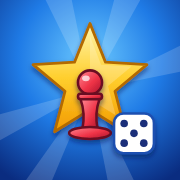
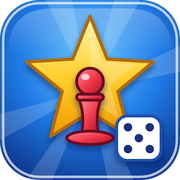
Release 1.0.3.13: online Ludo with robots, surrender continues with robots, search card
- Ludo challenge asks for 0, 1 or 2 robots before it is sent.
- Robots fill seats 1 and 3; the host plays their turns; a player who surrenders gives his seat to a robot.
- A finished or left match never reopens by itself.
- Loss sound in online Ludo matches is the one from 1.0.2.59.
- Share card (og-image) and app icons use the new logo; title and description name Master Ludo W7 and online play.
- Migration 0009 adds robots and left_by (run it in Supabase before using this release).

Claude-Session: https://claude.ai/code/session_012oGnVPYsw6om722k7p4FdL

diff --git a/index.html b/index.html
@@ -5,26 +5,27 @@
 <meta name="google-site-verification" content="8vVfpssUxzTwk8yxWrmpteVLQDSvXtFi3DxhR9DhiJo" />
 <meta name="google" content="notranslate">
 <meta name="viewport" content="width=device-width,initial-scale=1,maximum-scale=1,minimum-scale=1,user-scalable=no,viewport-fit=cover">
-<title>ماستر لودو - Master Ludo</title>
-<script type="application/ld+json">{"@context": "https://schema.org", "@type": "WebSite", "name": "ماستر لودو - Master Ludo", "alternateName": ["Master Ludo", "ماستر لودو", "Master Ludo W7", "ماستر لودو W7", "Master Ludo Online"], "url": "https://master-ludo-w-seven.vercel.app/", "inLanguage": "ar"}</script>
+<title>Master Ludo W7 | ماستر لودو W7 - لعبة ليدو أونلاين</title>
+<script type="application/ld+json">{"@context": "https://schema.org", "@type": "WebSite", "name": "Master Ludo W7 | ماستر لودو W7 - لعبة ليدو أونلاين", "alternateName": ["Master Ludo", "ماستر لودو", "Master Ludo W7", "ماستر لودو W7", "Master Ludo Online"], "url": "https://master-ludo-w-seven.vercel.app/", "inLanguage": "ar"}</script>
 <meta name="robots" content="index,follow">
 <meta name="google-site-verification" content="vg9xHK12pdZE-18hPjQ5stEiOeEEj-1WRtIe7cxsWUc" />
-<meta name="description" content="العب ماستر لودو W7 أونلاين مع أصدقائك الآن مباشرة عبر المتصفح، لعبة ليدو ستار مع صالة ألعاب وشطرنج، بدون تحميل.">
+<meta name="description" content="Master Ludo W7 (ماستر لودو W7): العب ليدو وشطرنج أونلاين مع أصدقائك، تحدَّ صديقاً وأضف روبوتات، أو العب ضد الروبوت مباشرة من المتصفح بدون تحميل، مع صالة ألعاب مصغّرة.">
 <link rel="canonical" href="https://master-ludo-w-seven.vercel.app/">
 <meta property="og:type" content="website">
-<meta property="og:site_name" content="Master Ludo">
-<meta property="og:title" content="ماستر لودو - Master Ludo">
-<meta property="og:description" content="العب ماستر لودو W7 أونلاين مع أصدقائك الآن مباشرة عبر المتصفح، لعبة ليدو ستار مع صالة ألعاب وشطرنج، بدون تحميل.">
+<meta property="og:site_name" content="Master Ludo W7">
+<meta property="og:title" content="Master Ludo W7 | ماستر لودو W7 - لعبة ليدو أونلاين">
+<meta property="og:description" content="Master Ludo W7 (ماستر لودو W7): العب ليدو وشطرنج أونلاين مع أصدقائك، تحدَّ صديقاً وأضف روبوتات، أو العب ضد الروبوت مباشرة من المتصفح بدون تحميل، مع صالة ألعاب مصغّرة.">
 <meta property="og:url" content="https://master-ludo-w-seven.vercel.app/">
 <meta property="og:image" content="https://master-ludo-w-seven.vercel.app/og-image.png">
+<meta property="og:image:alt" content="Master Ludo W7 - ماستر لودو W7">
 <meta property="og:image:width" content="1200">
 <meta property="og:image:height" content="630">
 <meta property="og:locale" content="ar">
 <meta name="twitter:card" content="summary_large_image">
-<meta name="twitter:title" content="ماستر لودو - Master Ludo">
-<meta name="twitter:description" content="العب ماستر لودو W7 أونلاين مع أصدقائك الآن مباشرة عبر المتصفح، لعبة ليدو ستار مع صالة ألعاب وشطرنج، بدون تحميل.">
+<meta name="twitter:title" content="Master Ludo W7 | ماستر لودو W7 - لعبة ليدو أونلاين">
+<meta name="twitter:description" content="Master Ludo W7 (ماستر لودو W7): العب ليدو وشطرنج أونلاين مع أصدقائك، تحدَّ صديقاً وأضف روبوتات، أو العب ضد الروبوت مباشرة من المتصفح بدون تحميل، مع صالة ألعاب مصغّرة.">
 <meta name="twitter:image" content="https://master-ludo-w-seven.vercel.app/og-image.png">
-<script type="application/ld+json">{"@context": "https://schema.org", "@type": "VideoGame", "name": "Master Ludo", "alternateName": "ماستر لودو", "description": "العب ماستر لودو W7 أونلاين مع أصدقائك الآن مباشرة عبر المتصفح، لعبة ليدو ستار مع صالة ألعاب وشطرنج، بدون تحميل.", "url": "https://master-ludo-w-seven.vercel.app/", "image": "https://master-ludo-w-seven.vercel.app/og-image.png", "inLanguage": "ar", "genre": ["Board game", "Strategy"], "gamePlatform": "Web browser", "applicationCategory": "Game", "offers": {"@type": "Offer", "price": "0", "priceCurrency": "USD"}, "author": {"@type": "Person", "name": "Salah.Nejb.650"}}</script>
+<script type="application/ld+json">{"@context": "https://schema.org", "@type": "VideoGame", "name": "Master Ludo W7", "alternateName": ["Master Ludo", "ماستر لودو", "Master Ludo W7", "ماستر لودو W7", "Master Ludo Online"], "description": "Master Ludo W7 (ماستر لودو W7): العب ليدو وشطرنج أونلاين مع أصدقائك، تحدَّ صديقاً وأضف روبوتات، أو العب ضد الروبوت مباشرة من المتصفح بدون تحميل، مع صالة ألعاب مصغّرة.", "url": "https://master-ludo-w-seven.vercel.app/", "image": "https://master-ludo-w-seven.vercel.app/og-image.png", "inLanguage": "ar", "genre": ["Board game", "Strategy"], "gamePlatform": "Web browser", "applicationCategory": "Game", "offers": {"@type": "Offer", "price": "0", "priceCurrency": "USD"}, "author": {"@type": "Person", "name": "Salah.Nejb.650"}}</script>
 <meta name="theme-color" content="#0b1240">
 <meta name="mobile-web-app-capable" content="yes">
 <meta name="apple-mobile-web-app-capable" content="yes">
@@ -180,7 +181,7 @@ input[type=range]{width:100%;accent-color:var(--gold)}
 .sw{width:46px;height:46px;border-radius:50%;border:4px solid rgba(255,255,255,.5);cursor:pointer;background:var(--c);box-shadow:0 4px 0 rgba(0,0,40,.4),inset 0 3px 0 rgba(255,255,255,.5)}
 .sw[aria-pressed=true]{border-color:#fff;transform:scale(1.15)}
 .modal{position:fixed;inset:0;display:grid;place-items:center;padding:16px;background:rgba(3,14,56,.72);z-index:50}
-#m-ask{z-index:60}   /* 1.0.3.12: confirmations always sit above the online panel */
+#m-ask,#m-robots{z-index:60}   /* 1.0.3.12-13: confirmations and the robot pick sit above the online panel */
 .modal .card{width:100%;max-width:540px;max-height:90dvh;overflow:auto;padding:20px;display:flex;flex-direction:column;gap:14px;animation:pop .14s ease-out;
   background:linear-gradient(#2a82ee,#0e46ad);border:3px solid #a9d6ff;border-radius:26px;box-shadow:0 10px 0 #082866,0 20px 40px rgba(0,0,30,.55),inset 0 3px 0 rgba(255,255,255,.35)}
 .modal .card h2{font-size:1.9rem;color:var(--gold);text-align:center;text-shadow:0 3px 0 var(--ink)}
@@ -1163,6 +1164,14 @@ html[dir=rtl] .sp-bar i{transform-origin:right center}
     <div class="row"><button class="btn danger grow" id="askYes">نعم</button><button class="btn grow" data-close="m-ask">إلغاء</button></div>
   </div>
 </div>
+<div class="modal" id="m-robots" hidden>
+  <div class="card glass" role="dialog" aria-modal="true" aria-labelledby="t-robots">
+    <h2 id="t-robots">أضف روبوتات؟</h2>
+    <p id="robotsSub" class="muted" style="text-align:center"></p>
+    <div class="row" style="gap:10px"><button class="btn primary grow" data-robots="0">بدون روبوت</button><button class="btn grow" data-robots="1">روبوت 1</button><button class="btn grow" data-robots="2">روبوتان</button></div>
+    <button class="btn" data-close="m-robots">إلغاء</button>
+  </div>
+</div>
 <div class="modal" id="m-chess-menu" hidden>
   <div class="card glass" role="dialog" aria-modal="true" aria-labelledby="t-chm">
     <h2 id="t-chm">قائمة الشطرنج</h2>
@@ -1924,7 +1933,7 @@ if (false) module.exports = { TRACK, HOME, START, SYM, FIN, absIdx, isSafe, newG
 
 const APP_NAME = 'Master Ludo';       // fixed English name: never translated
 const ONESIGNAL_APP_ID = 'a65eeca1-05fa-40ae-a172-ddbd75fc14f0';   // OneSignal app id (public)
-const APP_VERSION = '1.0.3.12';
+const APP_VERSION = '1.0.3.13';
 /* ===== App infrastructure: storage, audio, helpers ===== */
 const LOGO_SVG = "<svg xmlns=\"http://www.w3.org/2000/svg\" viewBox=\"0 0 512 512\" width=\"512\" height=\"512\">\n<defs>\n<radialGradient id=\"lbg\" cx=\"50%\" cy=\"32%\" r=\"80%\"><stop offset=\"0\" stop-color=\"#6ccaff\"/><stop offset=\"0.5\" stop-color=\"#1f7be6\"/><stop offset=\"1\" stop-color=\"#0a2c80\"/></radialGradient>\n<linearGradient id=\"lstar\" x1=\"0\" y1=\"0\" x2=\"0\" y2=\"1\"><stop offset=\"0\" stop-color=\"#fff6b0\"/><stop offset=\"0.5\" stop-color=\"#ffcf2e\"/><stop offset=\"1\" stop-color=\"#f29a00\"/></linearGradient>\n<linearGradient id=\"lpawn\" x1=\"0\" y1=\"0\" x2=\"1\" y2=\"1\"><stop offset=\"0\" stop-color=\"#ff8a95\"/><stop offset=\"0.55\" stop-color=\"#ef3347\"/><stop offset=\"1\" stop-color=\"#a5132b\"/></linearGradient>\n<linearGradient id=\"lgloss\" x1=\"0\" y1=\"0\" x2=\"0\" y2=\"1\"><stop offset=\"0\" stop-color=\"#fff\" stop-opacity=\"0.55\"/><stop offset=\"1\" stop-color=\"#fff\" stop-opacity=\"0\"/></linearGradient>\n<filter id=\"lsh\" x=\"-20%\" y=\"-20%\" width=\"140%\" height=\"150%\"><feDropShadow dx=\"0\" dy=\"10\" stdDeviation=\"9\" flood-color=\"#04174f\" flood-opacity=\"0.55\"/></filter>\n</defs>\n<rect width=\"512\" height=\"512\" rx=\"112\" fill=\"url(#lbg)\"/>\n<g opacity=\"0.16\" fill=\"#fff\"><path d=\"M256 256 L120 -20 L200 -20Z\"/><path d=\"M256 256 L330 -20 L410 -20Z\"/><path d=\"M256 256 L532 120 L532 200Z\"/><path d=\"M256 256 L-20 330 L-20 410Z\"/><path d=\"M256 256 L390 532 L310 532Z\"/><path d=\"M256 256 L60 532 L140 532Z\"/></g>\n<rect x=\"9\" y=\"9\" width=\"494\" height=\"494\" rx=\"104\" fill=\"none\" stroke=\"#fff\" stroke-opacity=\"0.7\" stroke-width=\"7\"/>\n<path d=\"M24 150 Q24 24 150 24 H362 Q488 24 488 150 Q256 120 24 150Z\" fill=\"url(#lgloss)\" opacity=\"0.5\"/>\n<g filter=\"url(#lsh)\">\n<polygon points=\"256,46 305,168 436,176 335,260 368,388 256,318 144,388 177,260 76,176 207,168\" fill=\"url(#lstar)\" stroke=\"#b36b00\" stroke-width=\"9\" stroke-linejoin=\"round\"/>\n</g>\n<polygon points=\"256,86 291,176 387,182 313,243 337,336 256,285\" fill=\"#fff\" opacity=\"0.22\"/>\n<g filter=\"url(#lsh)\" stroke=\"#6a0e20\" stroke-width=\"8\" stroke-linejoin=\"round\" fill=\"url(#lpawn)\">\n<circle cx=\"256\" cy=\"232\" r=\"38\"/>\n<rect x=\"218\" y=\"268\" width=\"76\" height=\"17\" rx=\"8.5\"/>\n<path d=\"M226 285 Q242 330 232 380 L280 380 Q270 330 286 285 Z\"/>\n<ellipse cx=\"256\" cy=\"392\" rx=\"66\" ry=\"19\"/>\n</g>\n<ellipse cx=\"243\" cy=\"219\" rx=\"12\" ry=\"9\" fill=\"#fff\" opacity=\"0.7\"/>\n<g filter=\"url(#lsh)\"><rect x=\"332\" y=\"330\" width=\"126\" height=\"126\" rx=\"30\" fill=\"#fff\" stroke=\"#1d4fb0\" stroke-width=\"8\"/></g>\n<g fill=\"#1b2f7a\"><circle cx=\"364\" cy=\"362\" r=\"12\"/><circle cx=\"426\" cy=\"362\" r=\"12\"/><circle cx=\"395\" cy=\"393\" r=\"12\"/><circle cx=\"364\" cy=\"424\" r=\"12\"/><circle cx=\"426\" cy=\"424\" r=\"12\"/></g>\n</svg>";
 const PCOL = ['#ef3347', '#1fb85a', '#ffc21a', '#2b7de9'];
@@ -3395,6 +3404,7 @@ function kick() {
   if (!G || G.phase === 'over') return;
   const c = G.phase === 'bonus' && G.bonus ? G.bonus.c : G.turn;
   if (!isBot(c)) return;
+  if (G.online && G.seats[c] && !G.seats[c].owner) return;   // 1.0.3.13: the host plays the robots
   const r = runId;
   later(() => botAct(id, r), (G.phase === 'roll' ? 380 : 260) + swapHoldMs());   // the robot answers quickly
 }
@@ -3402,6 +3412,7 @@ function botAct(id, r) {
   if (id !== kickId || r !== runId || !G) return;
   const c = G.phase === 'bonus' && G.bonus ? G.bonus.c : G.turn;
   if (!isBot(c)) return;
+  if (G.online && G.seats[c] && !G.seats[c].owner) return;
   if (ui.swap) { later(() => botAct(id, r), 400); return; }      // the human is in the middle of choosing a swap
   if (G.phase === 'roll') {
     const sw = botSwap(G, c, seatDiff(c), Math.random);
@@ -7419,10 +7430,23 @@ function olState(f) {
   return age <= 60 ? 'green' : age <= 600 ? 'red' : 'gray';
 }
 // after an online match: challenge the same opponent again with the same game
-async function olRematch(game, oppId) {
+// 1.0.3.13: a Ludo challenge first asks how many robots join (0, 1 or 2); chess is sent at once
+function olChallenge(id, name, game) {
+  const g = game || olGame();
+  const sent = T('أُرسل التحدي، لديك 30 ثانية');
+  if (g !== 'friends') { olAct('rpc/create_challenge', { p_to_user: id, p_game_type: g }, sent); return; }
+  $('t-robots').textContent = T('أضف روبوتات؟');
+  $('robotsSub').textContent = T('تحدٍّ مع {n}', { n: name || T('صديقك') });
+  $('m-robots').querySelectorAll('[data-robots]').forEach((b) => {
+    b.textContent = T(['بدون روبوت', 'روبوت 1', 'روبوتان'][Number(b.dataset.robots)]);
+    b.onclick = () => { Sound.sfx('click'); closeModal('m-robots'); olAct('rpc/create_challenge', { p_to_user: id, p_game_type: 'friends', p_robots: Number(b.dataset.robots) }, sent); };
+  });
+  $('m-robots').querySelector('[data-close]').textContent = T('إلغاء');
+  openModal('m-robots');
+}
+function olRematch(game, oppId) {
   if (!oppId) return;
-  try { await olCall('rpc/create_challenge', { p_to_user: oppId, p_game_type: game }); toast(T('أُرسل التحدي، لديك 30 ثانية'), 2800); }
-  catch (e) { toast(olErrText(e), 3000); }
+  olChallenge(oppId, OL_NAMES[oppId], game);
 }
 function olRow(name, state, avHtml) {
   const row = h('div', 'ol-row');
@@ -7474,7 +7498,7 @@ function olDraw(friends, chal) {
     const incoming = c.to_user === olMe.id;
     const row = olRow(incoming ? nm(c.from_user) : nm(c.to_user), 'green', AV_PERSON);
     const cd = h('small', 'ol-cd'); cd.dataset.exp = c.expires_at; row.append(cd);
-    row.append(h('small', 'muted', (c.game_type === 'chess' ? T('شطرنج') : T('لودو'))));
+    row.append(h('small', 'muted', c.game_type === 'chess' ? T('شطرنج') : (c.robots ? (Number(c.robots) === 2 ? T('لودو مع روبوتين') : T('لودو مع روبوت')) : T('لودو'))));
     if (incoming) {
       row.append(olBtn(T('قبول'), 'btn small primary', () => olAct('rpc/accept_challenge', { p_challenge_id: c.id }, T('تم قبول التحدي'))));
       row.append(olBtn(T('رفض'), 'btn small', () => olAct('rpc/decline_challenge', { p_challenge_id: c.id })));
@@ -7493,9 +7517,7 @@ function olDraw(friends, chal) {
     del.innerHTML = '<svg viewBox="0 0 24 24" width="16" height="16" fill="none" stroke="currentColor" stroke-width="2.2" stroke-linecap="round" stroke-linejoin="round" aria-hidden="true"><path d="M4 7h16M9 7V4.5h6V7M6.5 7l1 12.5h9l1-12.5"/></svg><span>' + T('حذف') + '</span>';
     del.addEventListener('click', () => chAsk(T('حذف الصديق'), T('هل تريد حذف {n} من أصدقائك؟', { n: f.username }), T('حذف'), () => olAct('rpc/remove_friend', { p_friend: f.user_id }, T('أُزيل الصديق'))));
     row.append(del);
-    row.append(olBtn(T('تحدٍّ'), 'btn small primary ol-chal', () => {
-      olAct('rpc/create_challenge', { p_to_user: f.user_id, p_game_type: olGame() }, T('أُرسل التحدي، لديك 30 ثانية'));
-    }));
+    row.append(olBtn(T('تحدٍّ'), 'btn small primary ol-chal', () => olChallenge(f.user_id, f.username)));
     fl.append(row);
   });
   if (!fl.children.length) fl.append(h('small', 'muted', T('لا يوجد أصدقاء بعد')));
@@ -8019,7 +8041,7 @@ async function ldFlush() {
   if (!['roll', 'move', 'bonus', 'over'].includes(G.phase)) return;   // transient phases are not stored
   LD.dirty = false; LD.busy = true;
   const body = { match_id: LD.id, expected_version: LD.version, state: ldSerialize(),
-    result: G.phase === 'over' ? (G.winner === 0 ? 'white' : 'black') : null };
+    result: G.phase === 'over' ? (G.winner === 0 ? 'white' : G.winner === 2 ? 'black' : 'bot') : null };
   let next = 'ok';
   try {
     const row = await olCall('ludo-save', body);
@@ -8051,11 +8073,31 @@ function ldApply(row, force) {
   ui.swap = null; ui.sel = null; ui.bonusSel = null; ui.hint = null; ui.flash = '';
   G = ldFromState(row.state.ludo);
   ui.legal = G.phase === 'move' ? legalMoves(G, G.turn, G.dice) : [];
+  if (row.status === 'active' && row.left_by && row.left_by !== olMe.id && !LD.leftBy) ldLeft(row);
   if (row.status !== 'active' && G.phase !== 'over') {        // ended on the server (resigned)
     G.phase = 'over'; G.winner = row.winner === olMe.id ? LD.color : LD.oppColor; LD.resigned = true;
   }
   if (G.phase === 'over') { ldOver(); return; }
   refresh(); kick();
+}
+// 1.0.3.13: robots in online Ludo. Seats 1 and 3 are the robots; a player who left gives up his seat to a robot.
+// The host (the challenger, or the player who stayed) plays every robot turn; the other device only shows it.
+const BOT_OF = { 0: 2, 1: 0, 2: 3, 3: 1 };
+function ldHost() { return LD.leftBy ? LD.leftBy !== olMe.id : LD.color === 0; }
+function ldBotSeats() {
+  const at = LD.robots === 2 ? [1, 3] : LD.robots === 1 ? [1] : [];
+  if (LD.leftBy) at.push(LD.leftBy === LD.oppId ? LD.oppColor : LD.color);
+  at.forEach((c) => { LD.seats[c] = { name: '', type: 'bot', bn: BOT_OF[c], diff: 'normal', owner: ldHost() }; });
+}
+// the friend left with robots: the match goes on with the robots, and the player who stayed gets a short note
+function ldLeft(row) {
+  LD.leftBy = row.left_by; ldBotSeats();
+  setEmo($('t-win'), T('استسلم {n}', { n: LD.oppName }));
+  $('winSub').textContent = T('سيكمل اللعب معك الروبوت، ويمكنك متابعة المباراة.');
+  $('winCoins').hidden = true; $('winRank').replaceChildren();
+  $('wAgain').hidden = false; $('wAgain').textContent = T('متابعة مع الروبوتات');
+  $('wMenu').textContent = T('القائمة الرئيسية');
+  Sound.sfx('shield'); openModal('m-win');
 }
 function ldOpen(row) {
   if (!olMe) return;
@@ -8068,6 +8110,7 @@ function ldOpen(row) {
   LD.seats = [];
   LD.seats[LD.color] = { name: olMe.username, type: 'human', owner: true };
   LD.seats[LD.oppColor] = { name: LD.oppName, type: 'remote', owner: false };
+  LD.robots = Number(row.robots) || 0; LD.leftBy = row.left_by || null; ldBotSeats();
   LD.needInit = !(row.state && row.state.ludo);
   ldPalette(true);
   if (LD.needInit) { G = newGame({ seats: LD.seats, first: 0, mode: 'online' }); G.online = true; G.turnNo = 0; }
@@ -8121,9 +8164,9 @@ function ldOver() {
   $('winSub').textContent = won ? T('أوصلت قطعك الأربع إلى المركز أولاً.') : T('حاول مرة أخرى، المباراة القادمة لك.');
   const resigned = !!LD.resigned;
   if (resigned) $('winSub').textContent = won ? T('استسلم {n}، فزت بالمباراة.', { n: LD.oppName }) : T('لقد استسلمت.');
-  $('winCoins').hidden = true; $('winRank').replaceChildren(); $('wAgain').hidden = resigned; $('wAgain').textContent = T('تحدٍّ مرة أخرى');
-  $('wMenu').textContent = resigned ? T('خروج من المباراة') : T('القائمة الرئيسية');
-  Sound.sfx(won ? 'win' : 'err');
+  $('winCoins').hidden = true; $('winRank').replaceChildren(); $('wAgain').hidden = resigned && !won; $('wAgain').textContent = T('تحدٍّ مرة أخرى');
+  $('wMenu').textContent = T('القائمة الرئيسية');
+  Sound.sfx(won ? 'win' : 'shield');
   if (won) confetti();
   openModal('m-win');
 }
@@ -8131,12 +8174,13 @@ function ldOver() {
 function ldStop() {
   clearInterval(LD.poll); clearInterval(LD.tick); clearInterval(LD.presence);
   LD.poll = LD.tick = LD.presence = null;
-  if (LD.id && LD.active) LD.dismissed = { id: LD.id, version: LD.version };
+  if (LD.id) LD.dismissed = { id: LD.id, version: LD.version };
   LD.id = null; LD.active = false; ldPalette(false);
   $('turnTimer').hidden = true; $('ldOpp').hidden = true;
 }
 function ldAutoOpen(row) {
   if (LD.id === row.id || CG) return;      // already on screen, or a chess match is on screen
+  if (row.status !== 'active' || (row.left_by && row.left_by === olMe.id)) return;   // 1.0.3.13: a finished match, or one this player left, never comes back
   if ($('splash') && !$('splash').hidden) return;             // the entry screen is still up: the menu comes first
   if (G && !G.online) return;                                  // an offline game is on screen: never replace it
   if (LD.dismissed && LD.dismissed.id === row.id && LD.dismissed.version === row.version) return;
@@ -8397,6 +8441,7 @@ function gameOver() {
   setTimeout(() => { if (G && G.phase === 'over') openModal('m-win'); }, 900);
 }
 $('wAgain').addEventListener('click', () => {
+  if (G && G.online && LD.leftBy && LD.active) { Sound.sfx('click'); closeModal('m-win'); return; }   // 1.0.3.13: continue with the robots
   if (G && G.online) { Sound.sfx('click'); closeModal('m-win'); const id = LD.oppId; goMenu(); olRematch('friends', id); return; }
   Sound.sfx('click'); closeModal('m-win'); const cfg = G.cfg; cfg.seats.forEach((s) => { if (s) delete s.x; }); startGame(cfg);
 });
@@ -8411,7 +8456,7 @@ $('pRules').addEventListener('click', () => { modalReturn = 'm-pause'; $('m-paus
 $('pSettings').addEventListener('click', () => { modalReturn = 'm-pause'; $('m-pause').hidden = true; syncSettingsUI(); openModal('m-settings'); });
 $('pResign').addEventListener('click', () => {      // 1.0.3.12: the online Ludo match ends, the friend wins
   if (!LD.id || !LD.active || !G) return;
-  chAsk(T('الاستسلام'), T('هل تستسلم؟ سينتهي اللعب وسيفوز صديقك.'), T('نعم، استسلم'), async () => {
+  chAsk(T('الاستسلام'), LD.robots ? T('هل تستسلم؟ سيكمل صديقك اللعب مع الروبوتات.') : T('هل تستسلم؟ سينتهي اللعب وسيفوز صديقك.'), T('نعم، استسلم'), async () => {
     try {
       const rows = await olCall('rpc/resign_match', { p_match_id: LD.id });
       if (!rows || !rows[0]) return;
@@ -8714,10 +8759,12 @@ Object.assign(I18N.en,{"الإصدار 1.0.3.8: كل وظائف الأونلاي
 Object.assign(I18N.fr,{"الإصدار 1.0.3.8: كل وظائف الأونلاين تمر عبر عنوان واحد واضح، لإصلاح البطاقات والحالة والصداقات والبحث": "Version 1.0.3.8 : toutes les fonctions en ligne passent par une seule adresse claire, pour corriger cartes, statut, amis et recherche"});
 Object.assign(I18N.en,{"حذف الصديق": "Remove friend", "حذف": "Remove", "هل تريد حذف {n} من أصدقائك؟": "Remove {n} from your friends?", "الإصدار 1.0.3.10: الموسيقى تبدأ فور انتهاء شاشة البداية، وحذف الصديق بتأكيد، وإضافة لاعب من البحث لا تمسح بقية النتائج": "Version 1.0.3.10: the music starts as soon as the opening screen ends, friends are removed after confirmation, and adding a player from search keeps the other results"});
 Object.assign(I18N.en,{"هل تستسلم؟ سينتهي اللعب وسيفوز صديقك.": "Give up? The game ends and your friend wins.", "لقد استسلمت.": "You gave up.", "استسلم {n}، فزت بالمباراة.": "{n} gave up, you won the match.", "خروج من المباراة": "Leave the match", "الإصدار 1.0.3.12: الاستسلام في لودو الأونلاين، وشاشة البداية 6 ثوانٍ، ونافذة حذف الصديق تظهر فوق الأونلاين، ووصف أوضح في محركات البحث": "Version 1.0.3.12: resign in online Ludo, 6-second opening screen, friend removal confirmation above the online panel, clearer search description"});
+Object.assign(I18N.en,{"أضف روبوتات؟": "Add robots?", "بدون روبوت": "No robot", "روبوت 1": "1 robot", "روبوتان": "2 robots", "تحدٍّ مع {n}": "Challenge {n}", "لودو مع روبوت": "Ludo with 1 robot", "لودو مع روبوتين": "Ludo with 2 robots", "متابعة مع الروبوتات": "Continue with the robots", "استسلم {n}": "{n} gave up", "سيكمل اللعب معك الروبوت، ويمكنك متابعة المباراة.": "The robots continue the match with you.", "هل تستسلم؟ سيكمل صديقك اللعب مع الروبوتات.": "Give up? Your friend continues with the robots.", "الإصدار 1.0.3.13: لودو أونلاين مع روبوت أو روبوتين، والاستسلام يكمل المباراة مع الروبوتات، ولا تعود المباراة المنتهية من جديد، وأصوات الخسارة كما في الإصدار 59": "Version 1.0.3.13: online Ludo with 1 or 2 robots, surrender continues the match with the robots, a finished match never comes back, loss sounds as in version 59"});
 Object.assign(I18N.en,{"الإصدار 1.0.3.11: شاشة البداية تستمر 5 ثوانٍ، وأزرار الأصدقاء في الأونلاين لا تضيع عند الضغط": "Version 1.0.3.11: the opening screen lasts 5 seconds, and the friend buttons in online no longer disappear when tapped"});
 Object.assign(I18N.en,{"الإصدار 1.0.3.9: رسالة النسخ والإشعارات في الأونلاين تظهر لحظات ثم تختفي وحدها": "Version 1.0.3.9: copy and online notices appear for a moment, then disappear by themselves"});
 Object.assign(I18N.fr,{"حذف الصديق": "Supprimer l'ami", "حذف": "Supprimer", "هل تريد حذف {n} من أصدقائك؟": "Supprimer {n} de vos amis ?", "الإصدار 1.0.3.10: الموسيقى تبدأ فور انتهاء شاشة البداية، وحذف الصديق بتأكيد، وإضافة لاعب من البحث لا تمسح بقية النتائج": "Version 1.0.3.10 : la musique démarre dès la fin de l'écran d'accueil, un ami est supprimé après confirmation, et ajouter un joueur depuis la recherche garde les autres résultats"});
 Object.assign(I18N.fr,{"هل تستسلم؟ سينتهي اللعب وسيفوز صديقك.": "Abandonner ? La partie se termine et votre ami gagne.", "لقد استسلمت.": "Vous avez abandonné.", "استسلم {n}، فزت بالمباراة.": "{n} a abandonné, vous avez gagné la partie.", "خروج من المباراة": "Quitter la partie", "الإصدار 1.0.3.12: الاستسلام في لودو الأونلاين، وشاشة البداية 6 ثوانٍ، ونافذة حذف الصديق تظهر فوق الأونلاين، ووصف أوضح في محركات البحث": "Version 1.0.3.12 : abandon dans Ludo en ligne, écran d'accueil de 6 secondes, confirmation de suppression d'ami au-dessus du mode en ligne, description plus claire dans les moteurs de recherche"});
+Object.assign(I18N.fr,{});
 Object.assign(I18N.fr,{"الإصدار 1.0.3.11: شاشة البداية تستمر 5 ثوانٍ، وأزرار الأصدقاء في الأونلاين لا تضيع عند الضغط": "Version 1.0.3.11 : l'écran d'accueil dure 5 secondes, et les boutons des amis en ligne ne disparaissent plus au toucher"});
 Object.assign(I18N.fr,{"الإصدار 1.0.3.9: رسالة النسخ والإشعارات في الأونلاين تظهر لحظات ثم تختفي وحدها": "Version 1.0.3.9 : la copie et les notices en ligne apparaissent un instant puis disparaissent seules"});
 Object.assign(I18N.en,{"الأصوات: صوت الفوز في لودو والشطرنج عاد كما كان": "Sounds: the win sound in Ludo and chess is back to how it was", "ألوان طاولات لودو صارت طبيعية محايدة بدل الدافئة، مع تباين واضح": "Ludo table colours are now natural and neutral instead of warm, with clear contrast"});

diff --git a/sw.js b/sw.js
@@ -1,7 +1,7 @@
 /* Master Ludo - service worker: offline-first app shell */
 // OneSignal (phone notifications). If the file cannot load, the game keeps working.
 try { importScripts('https://cdn.onesignal.com/sdks/web/v16/OneSignalSDK.sw.js'); } catch (e) { /* offline or blocked */ }
-const CACHE = 'master-ludo-1.0.3.12';
+const CACHE = 'master-ludo-1.0.3.13';
 const SHELL = ['./', './index.html', './manifest.webmanifest', './icon-192.png', './icon-512.png', './icon-maskable-512.png', './apple-touch-icon.png', './favicon-32.png', './favicon-48.png', './offline.html', './music.mp3'];
 self.addEventListener('install', (e) => { e.waitUntil(caches.open(CACHE).then((c) => c.addAll(SHELL)).then(() => self.skipWaiting())); });
 self.addEventListener('activate', (e) => {
